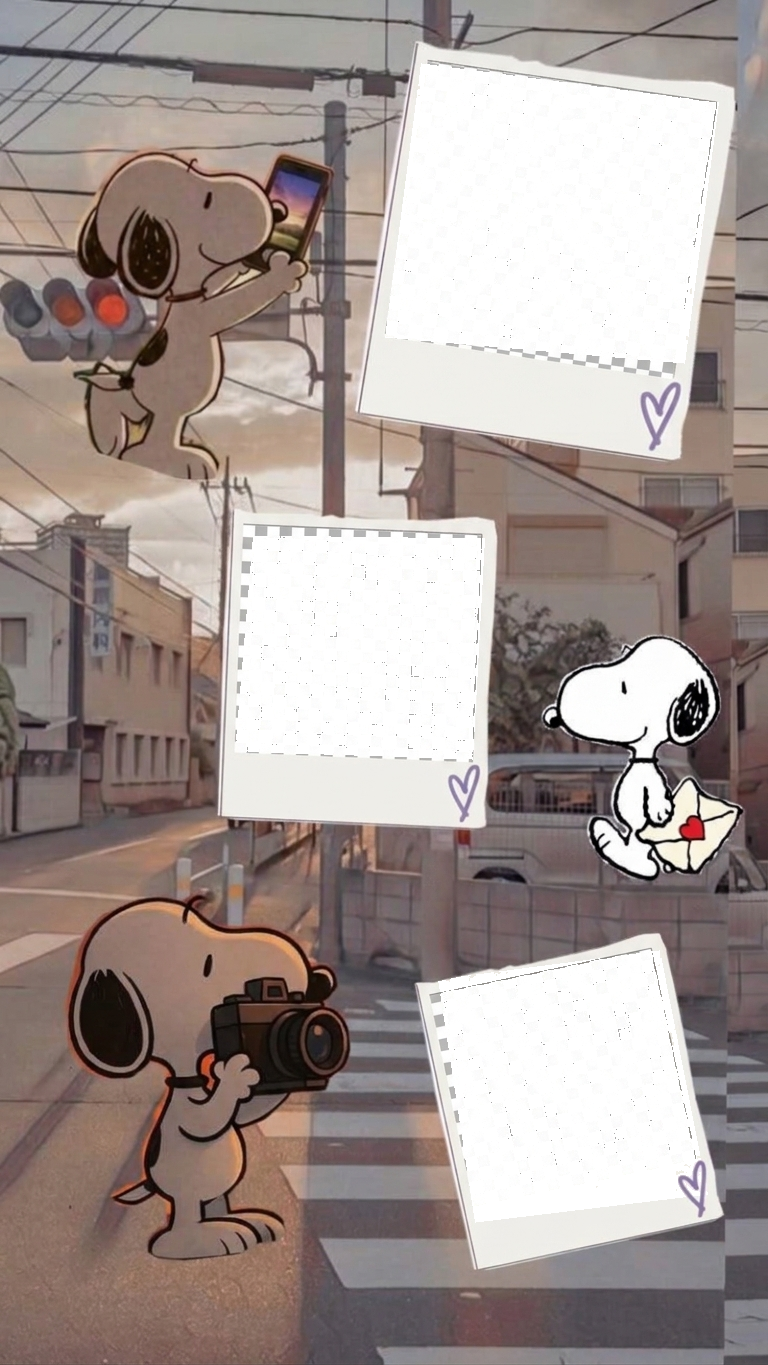
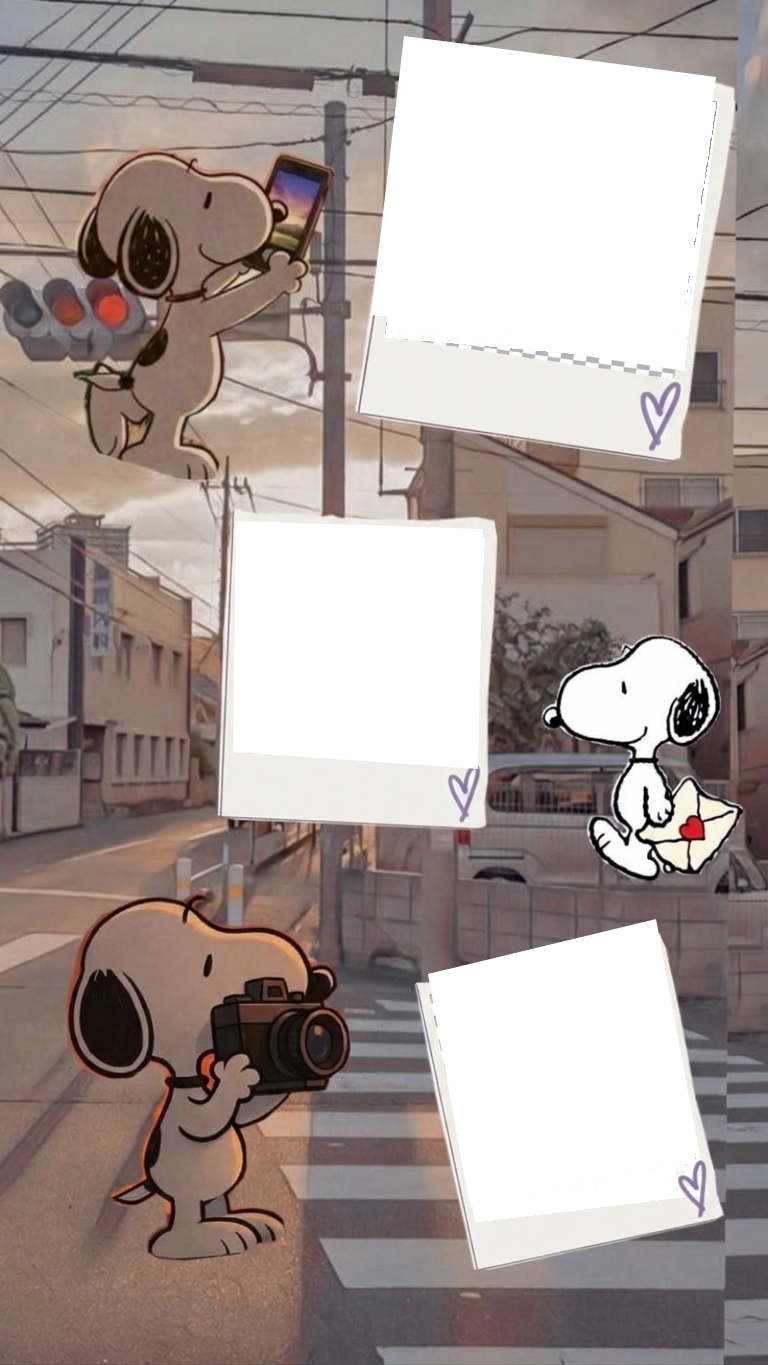
fix: clean up Snoopy Day photo slots

diff --git a/src/utils/boothTemplates.ts b/src/utils/boothTemplates.ts
@@ -48,9 +48,24 @@ export const BOOTH_TEMPLATES: BoothTemplate[] = [
     name: "Snoopy Day",
     image: "./templates/Tmp3_isi3.png",
     slots: [
-      rectangle(0.5026, 0.0462, 0.9362, 0.2667),
-      rectangle(0.3073, 0.3927, 0.6315, 0.5568),
-      rectangle(0.5703, 0.696, 0.9128, 0.896),
+      [
+        [0.527, 0.027],
+        [0.938, 0.057],
+        [0.892, 0.271],
+        [0.505, 0.239],
+      ],
+      [
+        [0.31, 0.38],
+        [0.634, 0.388],
+        [0.628, 0.56],
+        [0.302, 0.548],
+      ],
+      [
+        [0.557, 0.708],
+        [0.859, 0.676],
+        [0.913, 0.851],
+        [0.612, 0.889],
+      ],
     ],
   },
 ];
